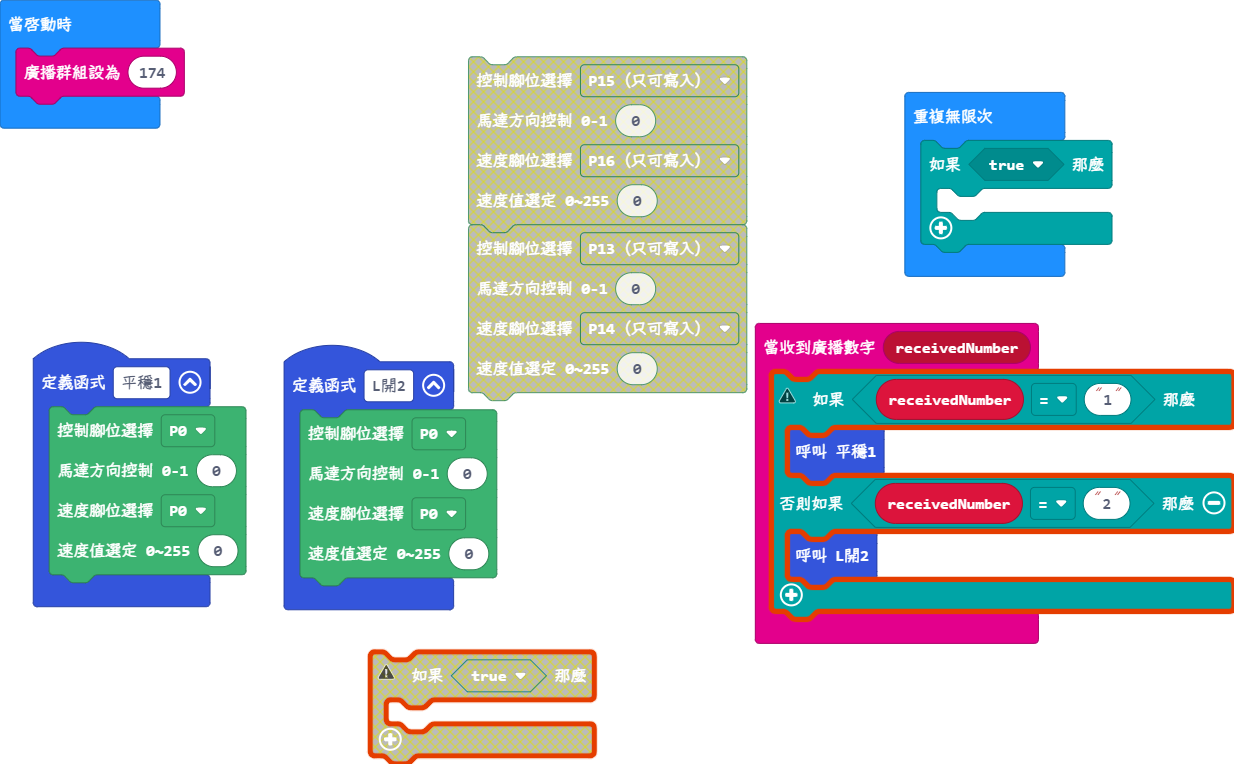
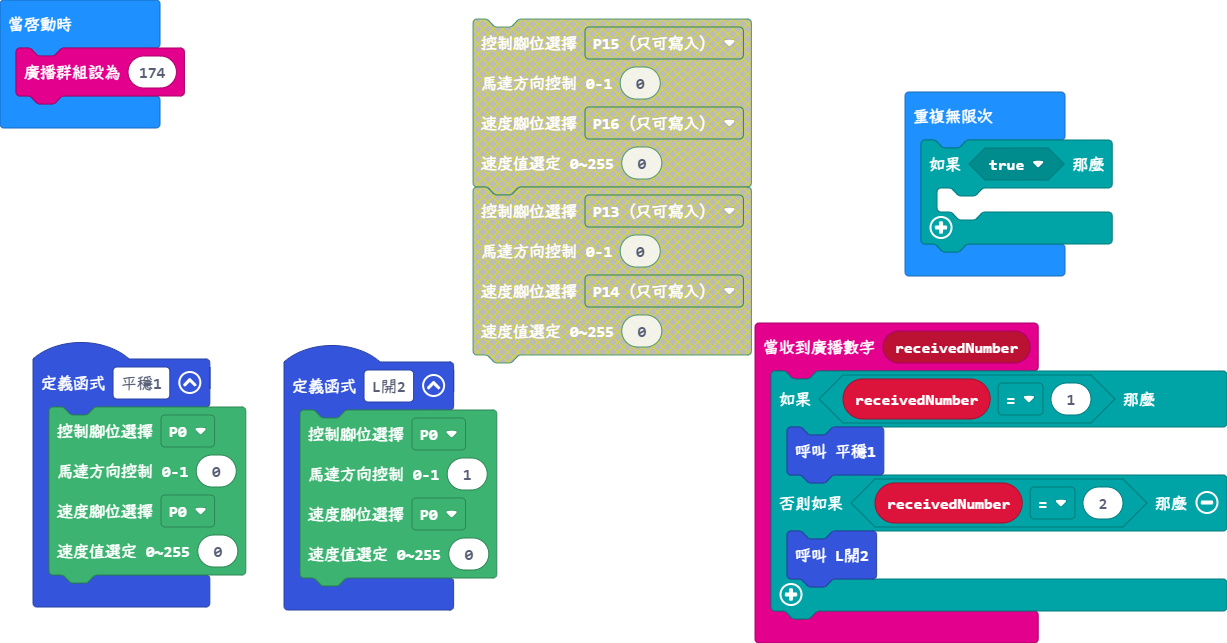
更新 pxt.json, main.blocks, main.ts

diff --git a/main.ts b/main.ts
@@ -1,14 +1,14 @@
 radio.onReceivedNumber(function (receivedNumber) {
-    if (receivedNumber == "1") {
+    if (receivedNumber == 1) {
         平穩1()
-    } else if (receivedNumber == "2") {
+    } else if (receivedNumber == 2) {
         L開2()
     }
 })
 function L開2 () {
     sensors.DDMmotor(
     AnalogPin.P0,
-    0,
+    1,
     AnalogPin.P0,
     0
     )
